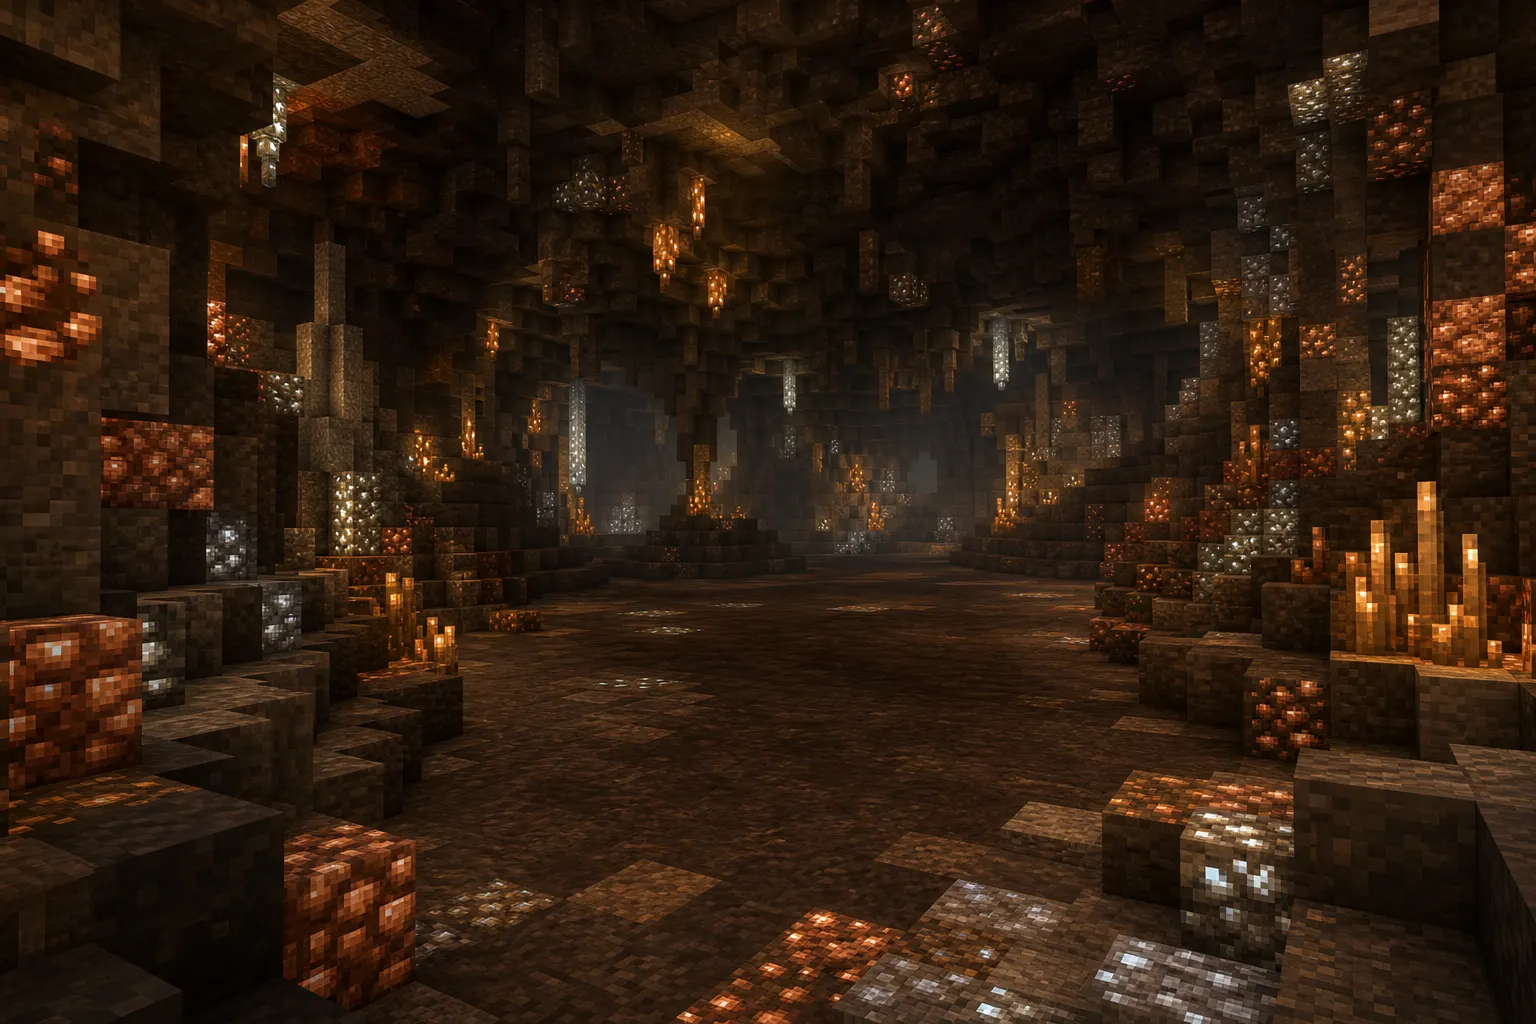
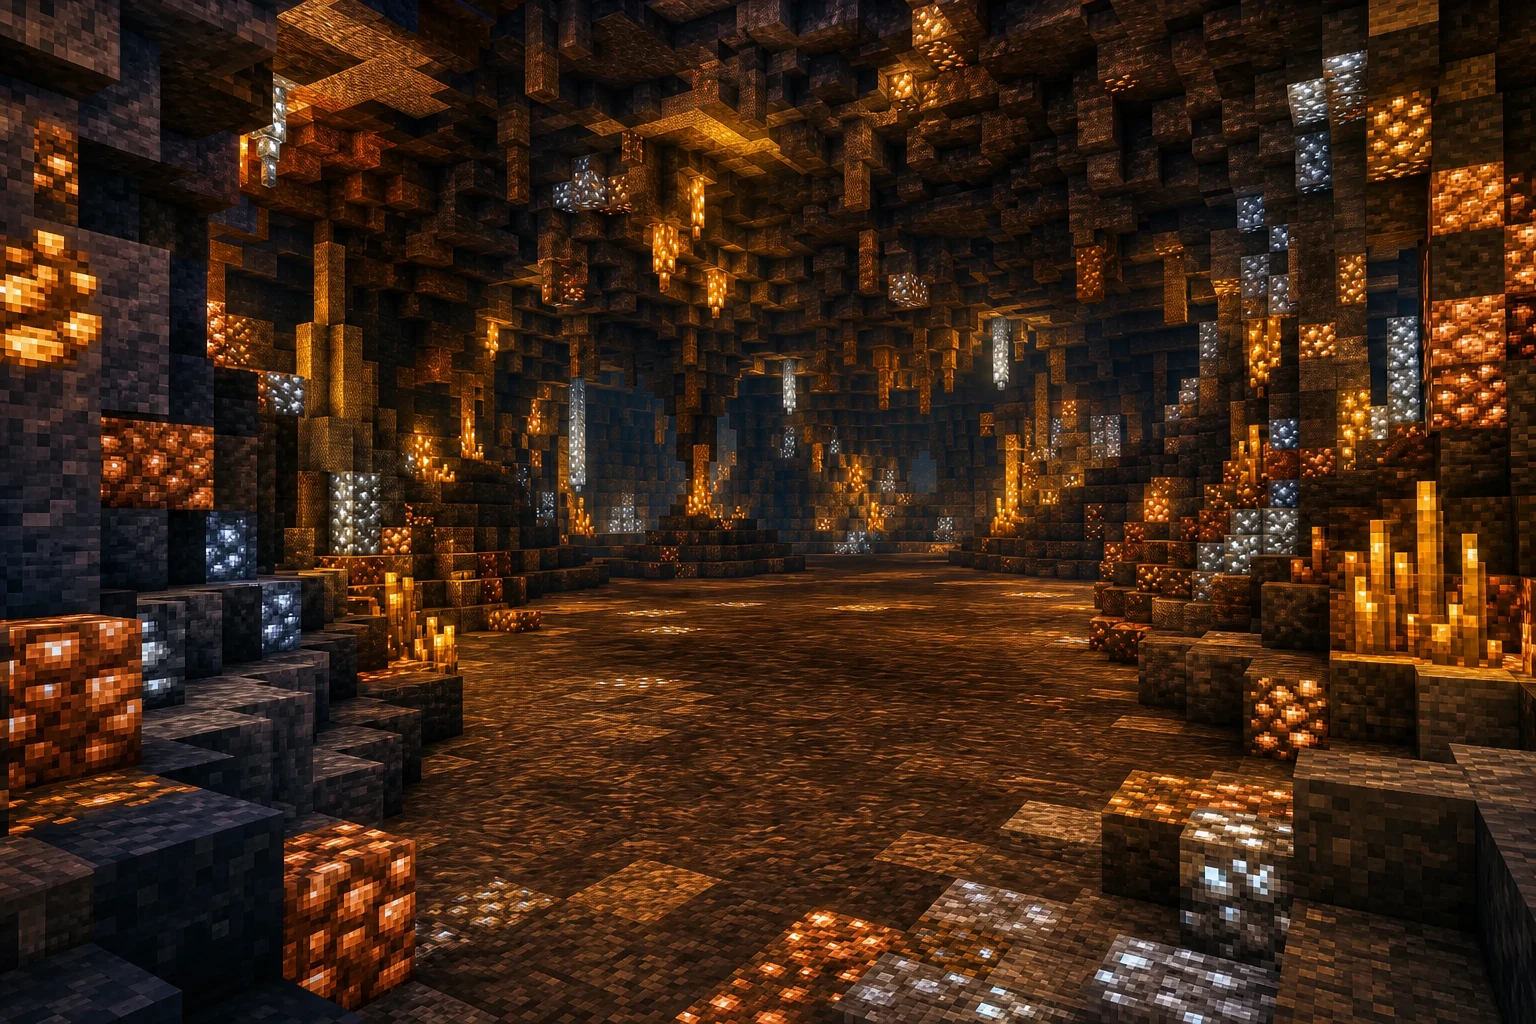
Brighten and refine deeper voxel backgrounds

diff --git a/src/background.js b/src/background.js
@@ -2,8 +2,8 @@ import * as THREE from 'three';
 
 import handUrl from './assets/backgrounds/grassy-field.webp';
 import clayUrl from './assets/backgrounds/cliff-valley.webp';
-import stoneUrl from './assets/backgrounds/stone-cave.webp';
-import ironUrl from './assets/backgrounds/deep-cave.webp';
+import stoneUrl from './assets/backgrounds/stone-quarry.webp';
+import ironUrl from './assets/backgrounds/cave-overlook.webp';
 import steelUrl from './assets/backgrounds/steel-granite-depth.webp';
 import copperUrl from './assets/backgrounds/copper-cavern.webp';
 import bronzeUrl from './assets/backgrounds/bronze-depth.webp';
@@ -41,6 +41,8 @@ const fragmentShader = `
   uniform sampler2D uFrom;
   uniform sampler2D uTo;
   uniform float uMix;
+  uniform float uFromTier;
+  uniform float uToTier;
   uniform float uViewAspect;
   varying vec2 vUv;
 
@@ -68,14 +70,34 @@ const fragmentShader = `
     return color;
   }
 
+  vec3 gradeForTier(vec3 color, float tier) {
+    float depth = smoothstep(0.0, 1.0, clamp(tier / 7.0, 0.0, 1.0));
+    float luminance = dot(color, vec3(0.2126, 0.7152, 0.0722));
+
+    // Keep every scene vivid while moving from warm daylight into a deeper,
+    // red-violet cast with stronger contrast.
+    float saturation = mix(1.18, 1.34, depth);
+    color = mix(vec3(luminance), color, saturation);
+    color *= mix(vec3(1.10, 1.06, 0.96), vec3(1.02, 0.82, 0.90), depth);
+
+    float contrast = mix(1.05, 1.18, depth);
+    color = (color - 0.5) * contrast + 0.5;
+    color *= mix(1.18, 0.92, depth);
+    return clamp(color, 0.0, 1.0);
+  }
+
   void main() {
     vec2 fromUv = coverUv(vUv + vec2(0.0, -0.06 * uMix));
     vec2 toUv = coverUv(vUv + vec2(0.0, 0.06 * (1.0 - uMix)));
-    vec4 color = mix(blurred(uFrom, fromUv), blurred(uTo, toUv), uMix);
+    vec3 fromColor = gradeForTier(blurred(uFrom, fromUv).rgb, uFromTier);
+    vec3 toColor = gradeForTier(blurred(uTo, toUv).rgb, uToTier);
+    vec3 color = mix(fromColor, toColor, uMix);
 
+    float tier = mix(uFromTier, uToTier, uMix);
+    float depth = smoothstep(0.0, 1.0, clamp(tier / 7.0, 0.0, 1.0));
     float edge = smoothstep(0.20, 0.72, distance(vUv, vec2(0.5)));
-    color.rgb *= 0.72 - edge * 0.25;
-    gl_FragColor = vec4(color.rgb, 1.0);
+    color *= mix(0.98, 0.88, depth) - edge * mix(0.08, 0.20, depth);
+    gl_FragColor = vec4(color, 1.0);
   }
 `;
 
@@ -93,6 +115,8 @@ function makeMaterial(texture) {
       uFrom: { value: texture },
       uTo: { value: texture },
       uMix: { value: 0 },
+      uFromTier: { value: 0 },
+      uToTier: { value: 0 },
       uViewAspect: { value: 1 },
     },
     vertexShader,
@@ -132,6 +156,8 @@ export class Background {
       this.material.uniforms.uFrom.value = this.textures[nextTier];
       this.material.uniforms.uTo.value = this.textures[nextTier];
       this.material.uniforms.uMix.value = 0;
+      this.material.uniforms.uFromTier.value = nextTier;
+      this.material.uniforms.uToTier.value = nextTier;
       return;
     }
     if (nextTier === this.currentTier && !this.transitioning) return;
@@ -143,6 +169,8 @@ export class Background {
     this.material.uniforms.uFrom.value = this.textures[this.currentTier];
     this.material.uniforms.uTo.value = this.textures[nextTier];
     this.material.uniforms.uMix.value = 0;
+    this.material.uniforms.uFromTier.value = this.currentTier;
+    this.material.uniforms.uToTier.value = nextTier;
   }
 
   resize() {
@@ -170,5 +198,7 @@ export class Background {
     this.material.uniforms.uFrom.value = this.textures[this.currentTier];
     this.material.uniforms.uTo.value = this.textures[this.currentTier];
     this.material.uniforms.uMix.value = 0;
+    this.material.uniforms.uFromTier.value = this.currentTier;
+    this.material.uniforms.uToTier.value = this.currentTier;
   }
 }
